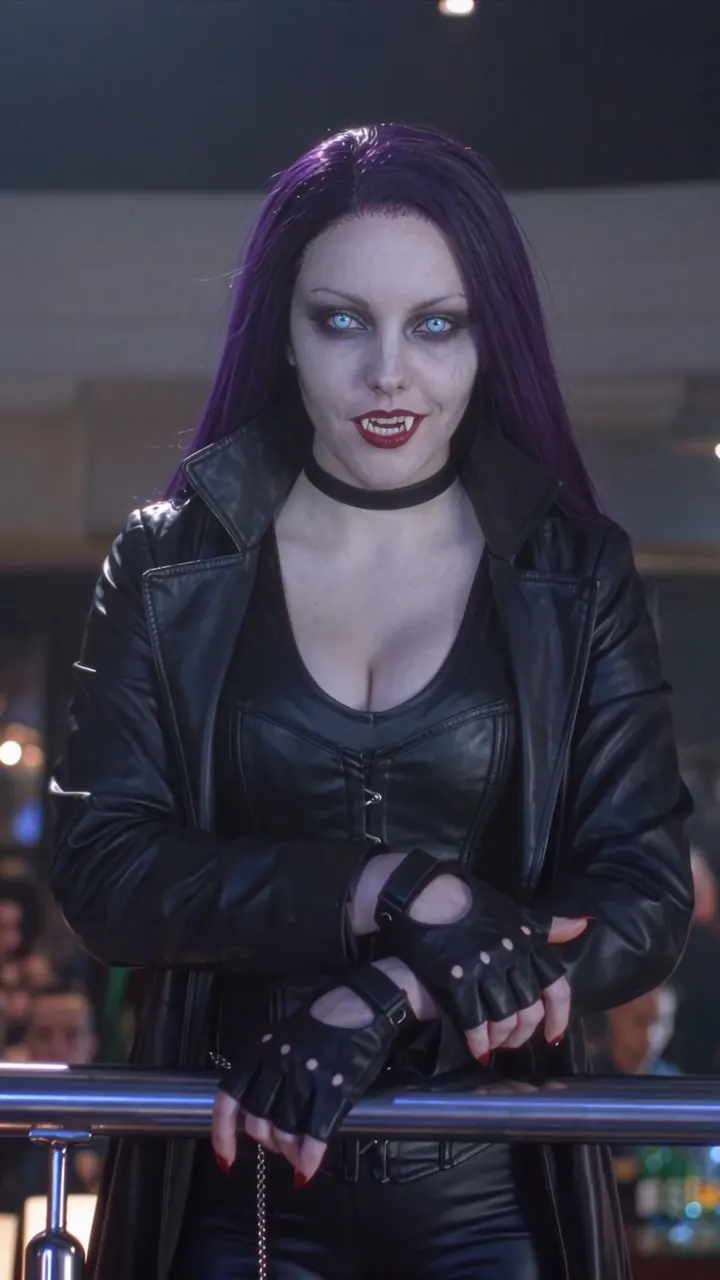
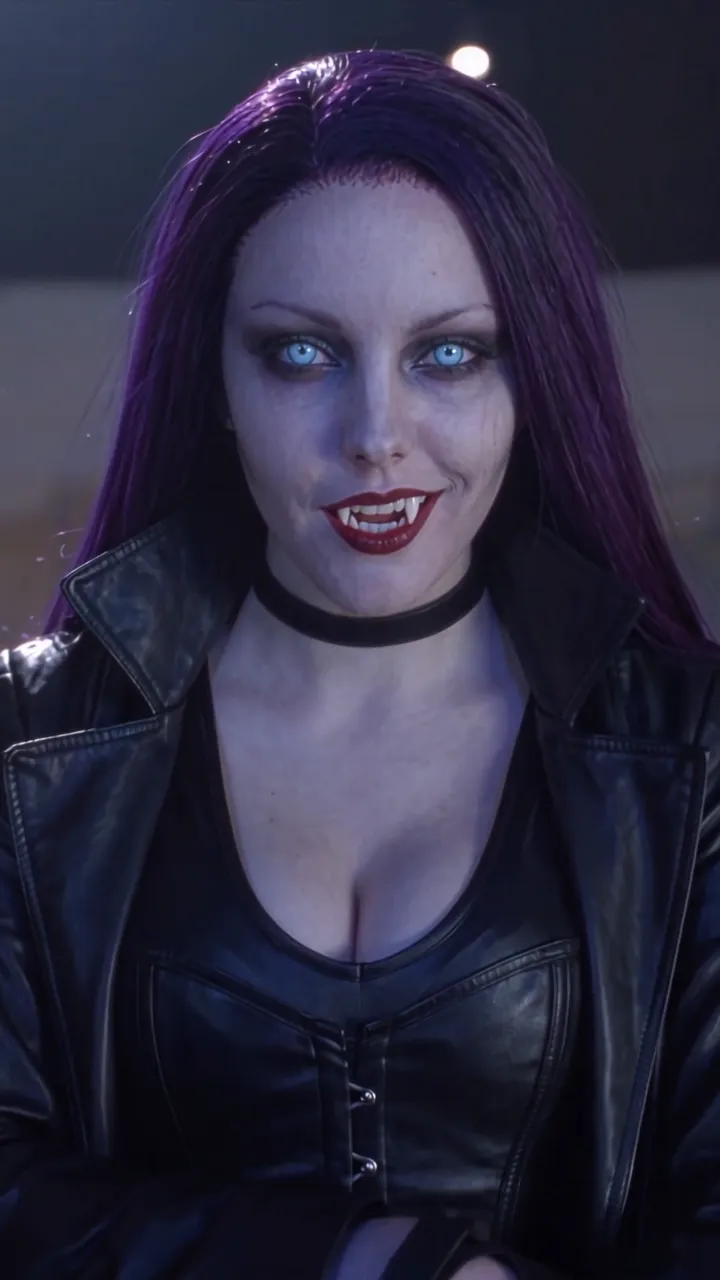
Halloween: portada del vídeo del baile con la vampira sonriendo

diff --git a/recursos/halloween/index.html b/recursos/halloween/index.html
@@ -131,7 +131,7 @@
                 <div class="section-line"></div>
             </div>
             <div class="rec-hw-grid">
-                <video class="rec-hw-video" src="/assets/recursos/halloween/baile.mp4" poster="/assets/recursos/halloween/baile-poster.webp" width="720" height="1280" controls muted loop playsinline preload="metadata"></video>
+                <video class="rec-hw-video" src="/assets/recursos/halloween/baile.mp4" poster="/assets/recursos/halloween/baile-poster.webp?v=2" width="720" height="1280" controls muted loop playsinline preload="metadata"></video>
                 <div>
                     <span class="rec-tag rec-tag-modelo">Wan 3.0</span>
                     <h3 class="rec-sub">C&oacute;mo hacerlo</h3>
